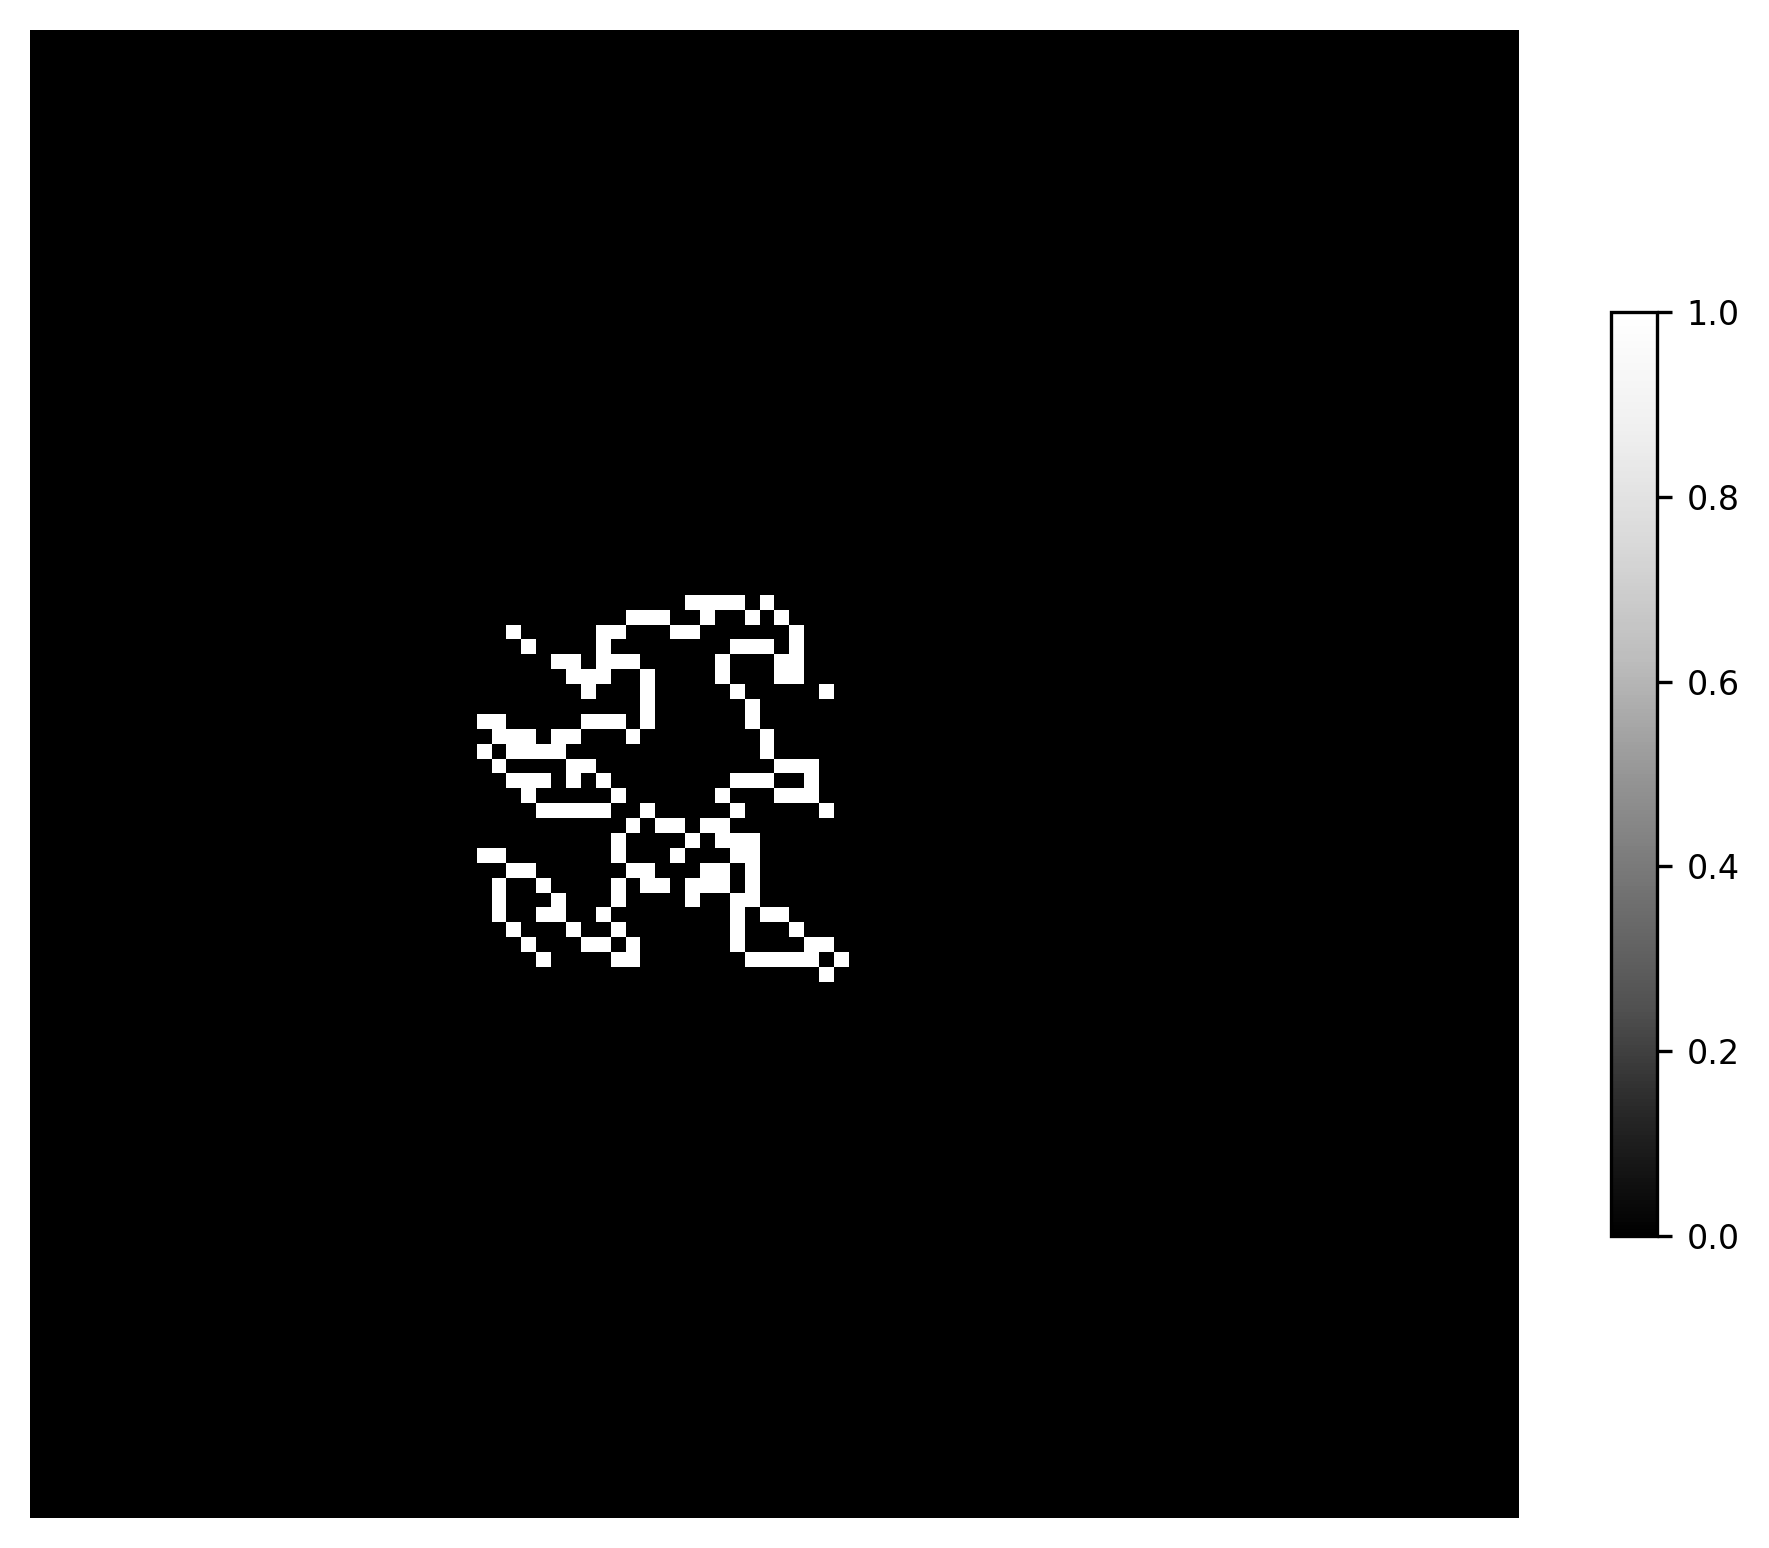
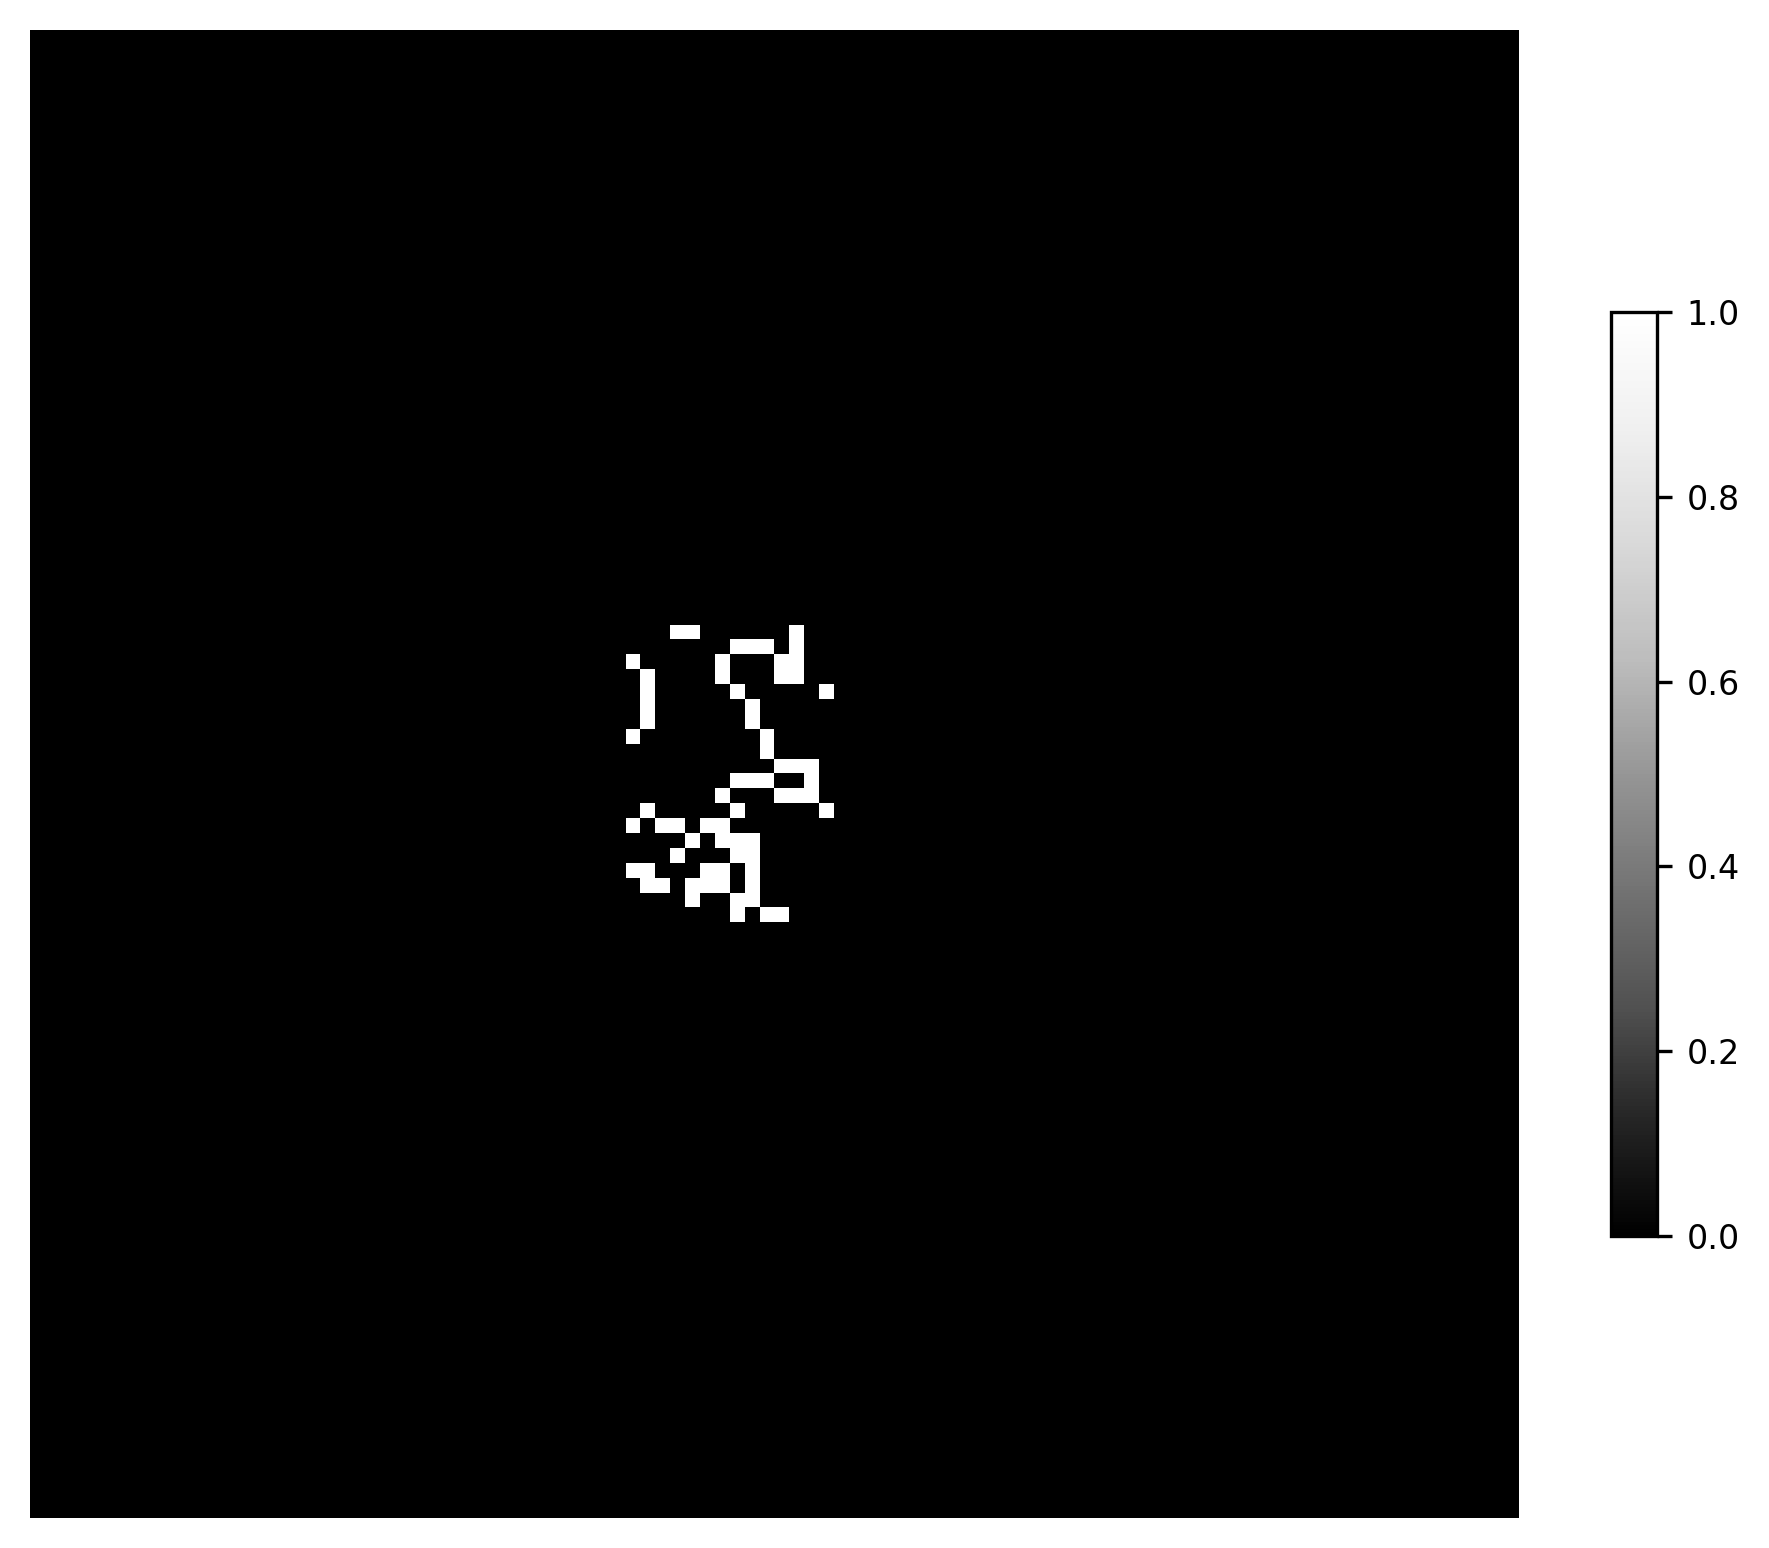
UPDATED MODEL

Changed region(s): [[0.2487, 0.3721, 0.4664, 0.6202], [0.4042, 0.5891, 0.4664, 0.6512], [0.2487, 0.5271, 0.2798, 0.5581]]

diff --git a/game_theory_codes/FPL-UE/play-games/game-model-FPL-UE-v1.py b/game_theory_codes/FPL-UE/play-games/game-model-FPL-UE-v1.py
@@ -17,6 +17,8 @@ from scipy.ndimage import distance_transform_edt
 from tqdm import tqdm
 import multiprocessing as mp
 from functools import partial
+import time
+import random
 
 import warnings
 warnings.filterwarnings("ignore")
@@ -69,7 +71,7 @@ class LandUseRewards:
         except Exception as e:
             raise Exception(f"Error reading raster: {str(e)}")
 
-    def _detect_forest_plantation_border(self, data, buffer=1, border_x=30,  border_y=35):
+    def _detect_forest_plantation_border(self, data, buffer=1, border_x=40,  border_y=40):
         forest_mask = (data == 15)  | (data == 5) | (data == 4) 
         plantation_mask = data == 10
         
@@ -596,6 +598,27 @@ def plot_and_save_defender_coverage(coverage_matrix, figsize=(8, 8),
 
     return 
 
+def generate_defender_strategies_v1(num_samples, num_landscape_cells: int, budget_k: int) -> Iterator[np.ndarray]:
+
+    samples = []
+    for _ in range(num_samples):
+        sample = sorted(random.sample(range(num_landscape_cells), budget_k))
+        samples.append(tuple(sample))
+    
+    unique_samples = list(set(samples))
+
+    strategy = []
+    for sample in unique_samples:
+        strategy.append(combination_to_binary_vector(sample, num_landscape_cells))
+        
+    return strategy
+
+def combination_to_binary_vector(combination, num_landscape_cells):
+
+    binary_vector = np.zeros(num_landscape_cells, dtype=int)
+    binary_vector[list(combination)] = 1
+    return binary_vector
+
 def generate_defender_strategies_v2(num_landscape_cells: int, budget_k: int) -> Iterator[np.ndarray]:
     """
     Generates all possible defender pure strategies given the landscape constraints.
@@ -619,6 +642,7 @@ def generate_defender_strategies_v2(num_landscape_cells: int, budget_k: int) -> 
             yield strategy   # Yield each strategy instead of storing in a set
 
 def select_defender_strategy_V1(
+    NUM_TEST_STRATEGIES,
     NUM_LANDSCAPE_CELLS, 
     BUDGET_K,
     estimated_reward: np.ndarray,  # Current estimated reward vector
@@ -629,7 +653,7 @@ def select_defender_strategy_V1(
     Selects a strategy based on the exploration-exploitation trade-off.
     """
 
-    strategies = generate_defender_strategies_v2(NUM_LANDSCAPE_CELLS, BUDGET_K)
+    strategies = generate_defender_strategies_v1(NUM_TEST_STRATEGIES, NUM_LANDSCAPE_CELLS, BUDGET_K)
 
     flag = np.random.random() < gamma 
 
@@ -647,6 +671,8 @@ def select_defender_strategy_V1(
         max_reward = float('-inf')
         best_strategy = None
         
+        strategies = list(strategies)
+
         for v in tqdm(strategies):
 
             v = np.array(v)
@@ -666,29 +692,43 @@ def evaluate_strategy(strategy, perturbed_reward):
     total_reward = np.dot(strategy, perturbed_reward)
     return (total_reward, strategy)
 
-def find_best_strategy_parallel(strategies, perturbed_reward, n_processes=8):
+def find_best_strategy_parallel(strategies, perturbed_reward, n_processes=32):
 
     if n_processes is None:
         n_processes = mp.cpu_count()
     
-    pool = mp.Pool(processes=n_processes)
-    
     eval_func = partial(evaluate_strategy, perturbed_reward=perturbed_reward)
     
+    # max_reward = float('-inf')
+    # best_strategy = None
+
+    # for reward, strategy in tqdm(
+    #     pool.imap_unordered(eval_func, strategies),
+    #     desc=f"Processing on {n_processes} CPUs",
+    # ):
+    #     if reward > max_reward:
+    #         max_reward = reward
+    #         best_strategy = strategy
+    
+    # pool.close()
+    # pool.join()
+
+    start = time.time()
+    with mp.Pool(processes=n_processes) as pool:
+        results = pool.map_async(eval_func, strategies).get()
+    end = time.time()
+
+    print(f"Time taken for parallel processing: {end - start:.2f} seconds")
+
     max_reward = float('-inf')
     best_strategy = None
-    
-    for reward, strategy in tqdm(
-        pool.imap_unordered(eval_func, strategies, chunksize=512),
-        desc=f"Processing on {n_processes} CPUs",
-    ):
+    for reward, strategy in tqdm(results):
         if reward > max_reward:
             max_reward = reward
             best_strategy = strategy
-    
+
     pool.close()
-    pool.join()
-    
+
     return best_strategy
 
 def select_defender_strategy_V2(
@@ -702,16 +742,17 @@ def select_defender_strategy_V2(
     Selects a strategy based on the exploration-exploitation trade-off.
     """
 
-    strategies = generate_defender_strategies_v2(NUM_LANDSCAPE_CELLS, BUDGET_K)
+    strategies = generate_defender_strategies_v1(NUM_LANDSCAPE_CELLS, BUDGET_K)
 
     flag = np.random.random() < gamma 
 
     if flag:  # Exploration of strategies
+        print("Exploration")
         strategies = list(strategies)
         v_t = strategies[np.random.randint(len(strategies))]
 
     else:  # Exploitation of learned strategies
-
+        print("Exploitation")
         n = len(estimated_reward)
         z = np.random.exponential(scale=1/eta, size=n)
         
@@ -776,14 +817,17 @@ def run_abm(model_params, experiment_name, output_folder, shape_of_coverage_matr
     )
 
     lulc_data = gdal.Open("game_theory_codes/FPL-UE/outputs/interpolated_LULC_matrix.tif").ReadAsArray()
+    coverage_matrix = gdal.Open("game_theory_codes/FPL-UE/outputs/coverage_matrix.tif").ReadAsArray()
+
     plantation_rows, plantation_cols = np.where(lulc_data == 10)
 
     attacker_strategy = []
     for row, col in zip(plantation_rows, plantation_cols):
-        if matrix[row, col] == 1:
-            attacker_strategy.append(1)
-        else:
-            attacker_strategy.append(0)
+        if coverage_matrix[row, col] == 1:
+            if matrix[row, col] == 1:
+                attacker_strategy.append(1)
+            else:
+                attacker_strategy.append(0)
 
     return attacker_strategy
 
@@ -800,14 +844,14 @@ def step_utility_defender(attacker_strategy_i, defender_strategy_i, targets_df):
 
     return reward_01 + reward_02
 
-def calculate_best_strategy_v1(NUM_LANDSCAPE_CELLS, BUDGET_K, attacker_strategy, targets_df):
+def calculate_best_strategy_v1(NUM_TEST_STRATEGIES, NUM_LANDSCAPE_CELLS, BUDGET_K, attacker_strategy, targets_df):
 
     max_reward = float('-inf')
     best_strategy = None
 
     attacker_strategy = np.array(attacker_strategy)
     
-    for v in generate_defender_strategies_v2(NUM_LANDSCAPE_CELLS, BUDGET_K):
+    for v in generate_defender_strategies_v1(NUM_TEST_STRATEGIES, NUM_LANDSCAPE_CELLS, BUDGET_K):
 
         v = np.array(v)
 
@@ -819,7 +863,7 @@ def calculate_best_strategy_v1(NUM_LANDSCAPE_CELLS, BUDGET_K, attacker_strategy,
     
     return best_strategy
 
-def calculate_best_strategy_v2(NUM_LANDSCAPE_CELLS, BUDGET_K, attacker_strategy_history, targets_df):
+def calculate_best_strategy_v2(NUM_TEST_STRATEGIES, NUM_LANDSCAPE_CELLS, BUDGET_K, attacker_strategy_history, targets_df):
 
     max_reward = float('-inf')
     best_strategy = None
@@ -828,7 +872,7 @@ def calculate_best_strategy_v2(NUM_LANDSCAPE_CELLS, BUDGET_K, attacker_strategy_
     for strategy in attacker_strategy_history:
         attack_counts += np.array(strategy)
 
-    for v in generate_defender_strategies_v2(NUM_LANDSCAPE_CELLS, BUDGET_K):
+    for v in generate_defender_strategies_v1(NUM_TEST_STRATEGIES, NUM_LANDSCAPE_CELLS, BUDGET_K):
 
         v = np.array(v)
 
@@ -860,7 +904,7 @@ def GR_algorithm(NUM_LANDSCAPE_CELLS: int,
     
     while k <= M:
 
-        v_tilde = select_defender_strategy_V2(NUM_LANDSCAPE_CELLS, BUDGET_K, estimated_reward, gamma, eta)
+        v_tilde = select_defender_strategy_V1(NUM_TEST_STRATEGIES, NUM_LANDSCAPE_CELLS, BUDGET_K, estimated_reward, gamma, eta)
         
         for i in range(n):
             if k < M and v_tilde[i] == 1 and K[i] == 0:
@@ -955,7 +999,7 @@ def calculate_defender_regret(defender_strategy_history, attacker_strategy_histo
 
     return REGRET
      
-def run_single_play(model_params, experiment_name, output_folder, MAX_GAME_STEPS, NUM_LANDSCAPE_CELLS, BUDGET_K, M, gamma, eta, targets_df, shape_of_coverage_matrix):
+def run_single_play(model_params, experiment_name, output_folder, MAX_GAME_STEPS, NUM_LANDSCAPE_CELLS, BUDGET_K, M, gamma, eta, targets_df, shape_of_coverage_matrix, NUM_TEST_STRATEGIES):
 
     estimated_reward = np.zeros(NUM_LANDSCAPE_CELLS)
 
@@ -968,9 +1012,10 @@ def run_single_play(model_params, experiment_name, output_folder, MAX_GAME_STEPS
 
         print("\n----- GameStep", i + 1,"-----")
 
-        defender_strategy_i = select_defender_strategy_V2(NUM_LANDSCAPE_CELLS, BUDGET_K, estimated_reward, gamma, eta)
+        defender_strategy_i = select_defender_strategy_V1(NUM_TEST_STRATEGIES, NUM_LANDSCAPE_CELLS, BUDGET_K, estimated_reward, gamma, eta)
 
-        coverage_matrix = create_defender_coverage_matrix(defender_strategy_i, shape_of_coverage_matrix)
+        # coverage_matrix = create_defender_coverage_matrix(defender_strategy_i, shape_of_coverage_matrix)
+        coverage_matrix = gdal.Open("game_theory_codes/FPL-UE/outputs/coverage_matrix.tif").ReadAsArray()
 
         plot_and_save_defender_coverage(coverage_matrix)
 
@@ -984,15 +1029,15 @@ def run_single_play(model_params, experiment_name, output_folder, MAX_GAME_STEPS
         defender_strategy_history.append(defender_strategy_i)
         attacker_strategy_history.append(attacker_strategy_i)
 
-        best_defender_strategy_i = calculate_best_strategy_v1(NUM_LANDSCAPE_CELLS, BUDGET_K, attacker_strategy_i, targets_df)
+        best_defender_strategy_i = calculate_best_strategy_v1(NUM_TEST_STRATEGIES, NUM_LANDSCAPE_CELLS, BUDGET_K, attacker_strategy_i, targets_df)
 
         print("Best strategy for defender for the current step:", best_defender_strategy_i)
 
-        best_defender_strategy_t = calculate_best_strategy_v2(NUM_LANDSCAPE_CELLS, BUDGET_K, attacker_strategy_history, targets_df)
+        best_defender_strategy_t = calculate_best_strategy_v2(NUM_TEST_STRATEGIES, NUM_LANDSCAPE_CELLS, BUDGET_K, attacker_strategy_history, targets_df)
 
         print("Best strategy for defender considering all attacker histories:", best_defender_strategy_t)
 
-        K = GR_algorithm(NUM_LANDSCAPE_CELLS, BUDGET_K, eta, M, estimated_reward, gamma=gamma)
+        K = GR_algorithm(NUM_TEST_STRATEGIES, NUM_LANDSCAPE_CELLS, BUDGET_K, eta, M, estimated_reward, gamma=gamma)
 
         estimated_reward = update_estimated_reward(estimated_reward, K, attacker_strategy_i, defender_strategy_i, targets_df)
 
@@ -1035,6 +1080,11 @@ def optimise_strategy(model_params, experiment_name, output_folder):
 
     assign_rewards_and_penalties._detect_forest_plantation_border(interpolated, buffer=1)
 
+    assign_rewards_and_penalties.save_interpolated_matrix(
+        assign_rewards_and_penalties.forest_agriculture_fringe, "game_theory_codes/FPL-UE/outputs/coverage_matrix.tif",
+        shape_of_coverage_matrix
+    )
+
     targets_df = assign_rewards_and_penalties.assign_target_rewards_and_penalties_random(
         target_value=10, interpolated=interpolated
     )
@@ -1044,25 +1094,25 @@ def optimise_strategy(model_params, experiment_name, output_folder):
     )
 
     NUM_LANDSCAPE_CELLS = len(targets_df)  # Total number of landscape cells within the simulation extent
-    # print(f"Number of landscape cells: {NUM_LANDSCAPE_CELLS}")
+    print(f"Number of landscape cells: {NUM_LANDSCAPE_CELLS}")
     BUDGET_K = 5  # Maximum number of cells that can be protected by the defenders at every time-step
     MAX_GAME_STEPS = 25  # Maximum number of time-steps in the game
     gamma = 0.25  # Exploration/Exploitation Trade-off parameter
     eta = 10  #reward perturbation parameter
     M = 10      #PARAMETER IN THE ALGORITHM
+    NUM_TEST_STRATEGIES = 1000
 
-    print(f"Generating all strategies for the defender for {NUM_LANDSCAPE_CELLS} landscape cells and {BUDGET_K} budget")
+    print(f"Generating strategies for the defender for {NUM_LANDSCAPE_CELLS} landscape cells and {BUDGET_K} budget")
 
-    # Generate all valid defender strategies
-    E = generate_defender_strategies_v2(NUM_LANDSCAPE_CELLS, BUDGET_K)
+    E = generate_defender_strategies_v1(NUM_TEST_STRATEGIES, NUM_LANDSCAPE_CELLS, BUDGET_K)
 
     print("Example strategies:")
     for i, strategy in enumerate(E):  
         if i >= 5:
             break
-        print(f"Strategy {i + 1}: {tuple(strategy)}")
+        print(f"Strategy {i + 1}:", strategy)
 
-    run_single_play(model_params, experiment_name, output_folder, MAX_GAME_STEPS, NUM_LANDSCAPE_CELLS, BUDGET_K, M, gamma, eta, targets_df, shape_of_coverage_matrix)
+    run_single_play(model_params, experiment_name, output_folder, MAX_GAME_STEPS, NUM_LANDSCAPE_CELLS, BUDGET_K, M, gamma, eta, targets_df, shape_of_coverage_matrix, NUM_TEST_STRATEGIES)
 
 
 
